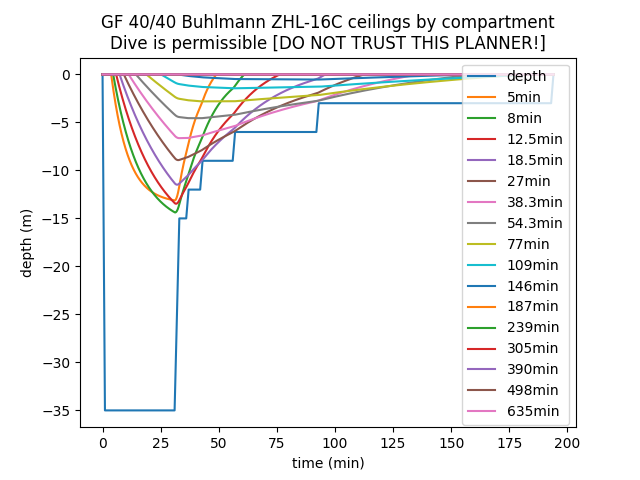
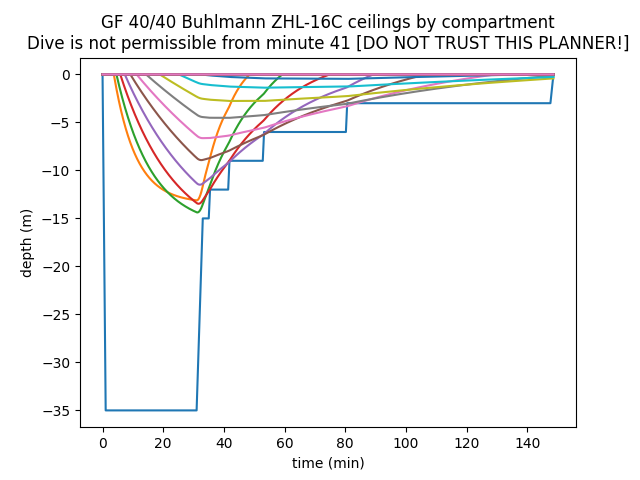
this dive plan works in subsurface 40/40, need to change algo

diff --git a/deco.py b/deco.py
@@ -236,7 +236,7 @@ def graph_buhlmann_dive_profile(dive: DiveProfile, buhlmann: Buhlmann_Z16C):
     depths = [-checkpoint.depth for checkpoint in dive.profile]
     checkpoints_not_allowed = [checkpoint for checkpoint in dive.profile if not checkpoint.validation]
     validation = len(checkpoints_not_allowed) == 0
-    min_minute_not_allowed = None if validation else checkpoints_not_allowed[0].time//60
+    min_minute_not_allowed = None if validation else int(checkpoints_not_allowed[0].time//60)
 
     import matplotlib.pyplot as plt
     import numpy as np
@@ -259,7 +259,7 @@ def graph_buhlmann_dive_profile(dive: DiveProfile, buhlmann: Buhlmann_Z16C):
 
     # Put a legend to the right of the current axis
     # plt.legend(loc='center left', bbox_to_anchor=(1, 0.5))
-    plt.legend()#loc='center left')
+    # plt.legend(loc='center left')
 
     plt.savefig('deco.png')
 
@@ -285,6 +285,22 @@ dive_checkpoints = lazy_make_dive_checkpoints([
     (35,6),
     (1,3),
     (100,3),
+    (1,0)
+])
+dive_checkpoints = lazy_make_dive_checkpoints([
+    (0,0),
+    (1,35),
+    (30,35),
+    (2,15),
+    (2,15),
+    (0.4,12),
+    (6,12),
+    (0.4,9),
+    (11,9),
+    (0.4,6),
+    (27,6),
+    (0.4,3),
+    (67,3),
     (1,0)
 ])
 
